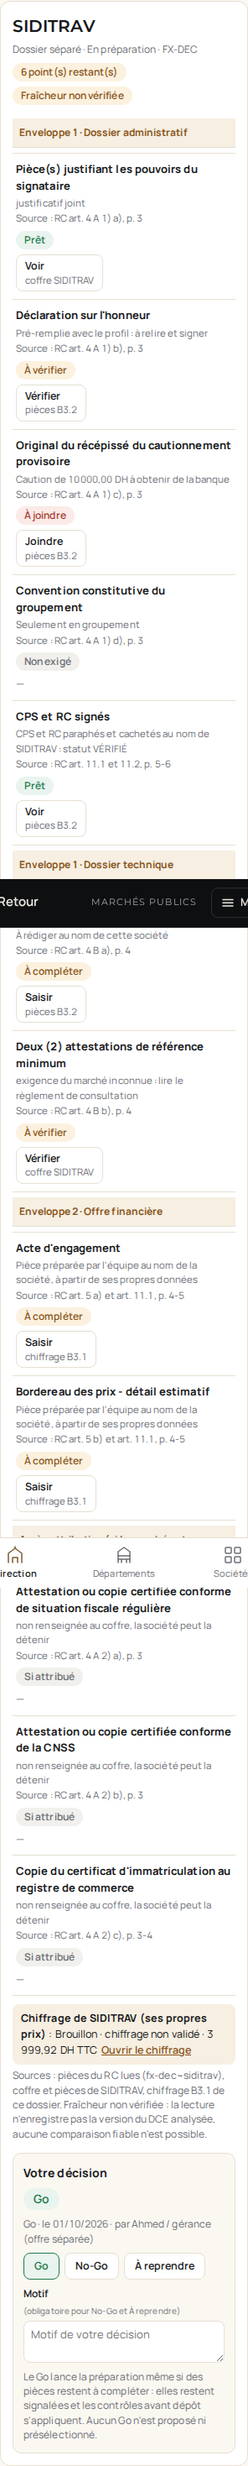
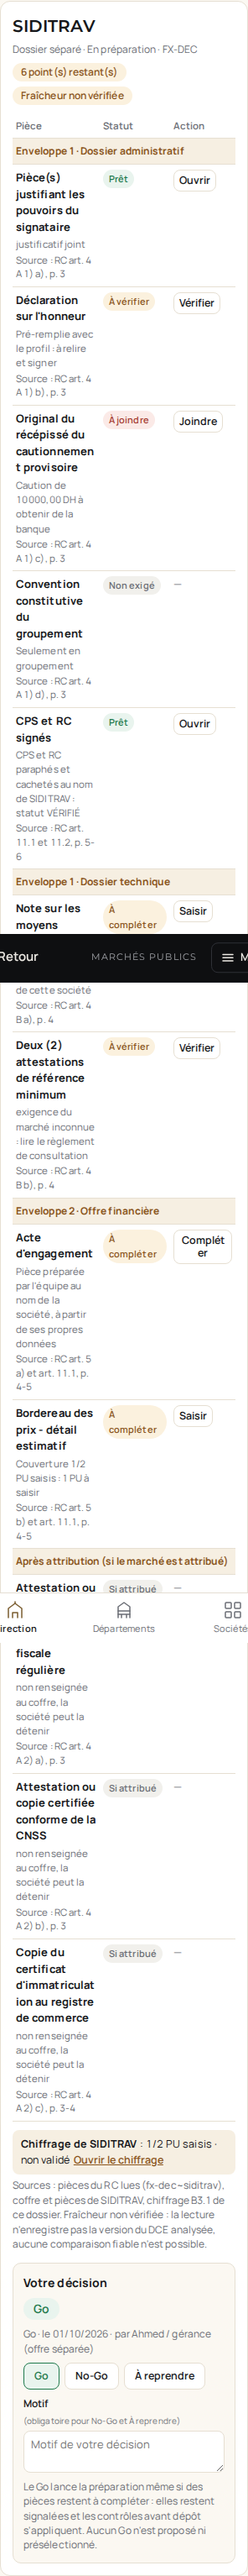
B2.1 b21d-2 : aucun montant dans la décision multi-sociétés, bordereau « Chiffré · à valider » d'après le chiffrage propre, en-têtes visibles
Publié version 1791669242-c9cf ; qa_b21dec 38/38 + non-régression (fixtures uniquement).

Claude-Session: https://claude.ai/code/session_01Fz3SDj4h719T8LXxdPwfkD

Changed region(s): [[0.0, 0.0, 1.0, 0.9915], [0.6993, 0.1549, 0.9122, 0.1859], [0.8818, 0.7436, 0.9122, 0.7746]]

diff --git a/preuves_b31/part_b21dec.js b/preuves_b31/part_b21dec.js
@@ -5,15 +5,21 @@
    a.decision {verdict, le, qui, motif} ; jamais de Go automatique ni de présélection ; une décision remplacée est conservée
    (a.decisionHist) et tracée au journal ; la société d'un dossier n'est jamais changée ici. L'avis et la recommandation de
    l'Analyste restent dans la note d'analyse. Consultation clôturée : décision affichée en lecture, aucune nouvelle soumission. */
-const B21D={v:"b21d-1",motif:{},conf:null};
-const B21D_ST={pret:["b21d-ok","Prêt"],verif:["b21d-amb","À vérifier"],joindre:["b21d-ko","À joindre"],compl:["b21d-amb","À compléter"],nonexige:["b21d-neu","Non exigé"],attrib:["b21d-neu","Si attribué"]};
-const B21D_COFFRE=["qc","refs","fis","cnss","rc","pouvoirs"],B21D_FIN=["ae","bpu","sdp"];
+const B21D={v:"b21d-2",motif:{},conf:null};
+const B21D_ST={chiffre:["b21d-amb","Chiffré · à valider"],chval:["b21d-ok","Chiffré · validé"],pret:["b21d-ok","Prêt"],verif:["b21d-amb","À vérifier"],joindre:["b21d-ko","À joindre"],compl:["b21d-amb","À compléter"],nonexige:["b21d-neu","Non exigé"],attrib:["b21d-neu","Si attribué"]};
+const B21D_COFFRE=["qc","refs","fis","cnss","rc","pouvoirs"],B21D_FIN=["bpu","sdp"];   /* l'acte d'engagement se prépare dans les pièces (B3.2) */
+/* b21d-2 : état du chiffrage de LA société, sans aucun montant (FIN-ISO-001) : couverture des PU et validation seulement */
+function b21dChiffrage(oid,a){if(!S.bp[oid])return null;try{const ET=b31Etat(oid,a),T=ET.T;return{n:T.n,N:T.n+T.miss,complet:!T.miss&&T.n>0,valide:!!ET.valide,tva:ET.tva.ok,statut:ET.statut.k};}catch(e){return null;}}
 function b21dSibs(id,a){let L=[];try{L=b31Sibs(id,a);}catch(e){L=[{id,soc:a.soc,statut:a.statut}];}return L.map(s=>({oid:s.id,sid:s.soc,a:S.ao[s.id]})).filter(x=>x.a&&x.sid);}
 function b21dRcId(oid,a){return[oid,a.base].filter(Boolean).find(x=>S.rc[x]&&Array.isArray(S.rc[x].pieces)&&S.rc[x].pieces.length)||oid;}
 function b21dLim(a){if(!a.lim)return null;const m=String(a.heure||"").match(/(\d{1,2})\s*[hH:]\s*(\d{2})?/),d=new Date(a.lim+"T"+(m?String(m[1]).padStart(2,"0")+":"+(m[2]||"00"):"23:59")+":00");return isNaN(d)?null:d;}
 const b21dClos=a=>{const d=b21dLim(a);return!!d&&d<new Date()&&!["Déposé","Attribué","Non retenu"].includes(a.statut);};
 /* statut d'une pièce : « Prêt » uniquement sur preuve vérifiée */
-function b21dPiece(row,p,oa,sid){const std=p&&p.std,st=row.st,dp=oa.dcePieces||{},F=oa.fichiers||{};
+function b21dPiece(row,p,oa,sid,CH){const std=p&&p.std,st=row.st,dp=oa.dcePieces||{},F=oa.fichiers||{};
+  if(std==="bpu"&&CH&&CH.n){const cov=CH.n+"/"+CH.N+" PU saisis";
+    if(CH.valide)return{k:"chval",ctrl:"Couverture "+cov+" · chiffrage validé (offre figée) ; signature et cachet du bordereau restent à faire"};
+    if(CH.complet)return{k:"chiffre",ctrl:"Couverture "+cov+" · chiffrage non validé"+(CH.tva?"":" ; TVA non confirmée")+" ; signature et cachet restent à faire"};
+    return{k:"compl",ctrl:"Couverture "+cov+" : "+(CH.N-CH.n)+" PU à saisir"};}
   if(std==="cpsrc"){const ok=["cps","rc"].every(k=>dp[k]&&dp[k].cachete&&dp[k].cachete.soc===sid&&dp[k].cachete.statut==="VÉRIFIÉ");
     if(ok)return{k:"pret",ctrl:"CPS et RC paraphés et cachetés au nom de "+socCourt(sid)+" : statut VÉRIFIÉ"};}
   if(std==="refs"&&F.refs&&F.refs.soc===sid&&F.refs.statut==="VÉRIFIÉ")return{k:"pret",ctrl:"Attestations de référence jointes au nom de "+socCourt(sid)+" : statut VÉRIFIÉ"};
@@ -22,18 +28,19 @@ function b21dPiece(row,p,oa,sid){const std=p&&p.std,st=row.st,dp=oa.dcePieces||{
   if(st==="manquant"||st==="bloquant")return{k:"joindre"};if(st==="remplir")return{k:"compl"};return{k:"verif"};}
 function b21dAller(oid,bur,k){if(typeof MPN!=="undefined"&&MPN.dos&&typeof mpnDosAller==="function"){S.aoId=oid;MPN.dos=Object.assign({},MPN.dos,{id:oid});mpnDosAller(bur,k);}else{S.aoId=oid;S.stepOpen={...(S.stepOpen||{}),[oid]:k};}
   render();window.scrollTo(0,0);if(typeof mpdFocus==="function")mpdFocus("#mpn-h");}
-function b21dAction(row,p,K,oid,sid){const std=p&&p.std,lab=K==="pret"?"Voir":K==="joindre"?"Joindre":K==="compl"?(B21D_FIN.includes(std)||std==="memoire"||std==="moyens"||std==="planning"?"Saisir":"Compléter"):"Vérifier";
+function b21dAction(row,p,K,oid,sid){const std=p&&p.std,lab=K==="pret"||K==="chiffre"||K==="chval"?"Ouvrir":K==="joindre"?"Joindre":K==="compl"?(B21D_FIN.includes(std)||std==="memoire"||std==="moyens"||std==="planning"?"Saisir":"Compléter"):"Vérifier";
   if(K==="nonexige"||K==="attrib")return"";
   if(B21D_COFFRE.includes(std))return`<button type="button" class="b21d-act" data-b21d-go="coffre" data-act="${act(()=>go(()=>{S.soc=sid;S.dept=null;}))}">${lab}<small>coffre ${esc(socCourt(sid))}</small></button>`;
   if(B21D_FIN.includes(std))return`<button type="button" class="b21d-act" data-b21d-go="prix" data-act="${act(()=>b21dAller(oid,"MP-B3.1","prix"))}">${lab}<small>chiffrage B3.1</small></button>`;
   return`<button type="button" class="b21d-act" data-b21d-go="pieces" data-act="${act(()=>b21dAller(oid,"MP-B3.2","pieces"))}">${lab}<small>pièces B3.2</small></button>`;}
 function b21dCarteData(oid,oa,sid){const rcId=b21dRcId(oid,oa),r=S.rc[rcId]||{},P=Array.isArray(r.pieces)?r.pieces:[];let rows=[];try{rows=b21Check(rcId,oa,sid);}catch(e){rows=[];}
   const env={"Administratif":["e1","adm"],"Technique":["e1","tec"],"Technique (offre technique)":["e1","tec"],"Financier":["e2","fin"],"Si attribué":["att","att"]};
-  const L=rows.filter(x=>x.pi!=null||x.st==="nonrens").map(x=>{const p=x.pi!=null?P[x.pi]:null,K=p?b21dPiece(x,p,oa,sid):{k:"verif"},e=env[x.g]||["e1","aut"];
+  const CH=b21dChiffrage(oid,oa);
+  const L=rows.filter(x=>x.pi!=null||x.st==="nonrens").map(x=>{const p=x.pi!=null?P[x.pi]:null,K=p?b21dPiece(x,p,oa,sid,CH):{k:"verif"},e=env[x.g]||["e1","aut"];
     return{piece:x.piece,ctrl:K.ctrl||x.ctrl,k:K.k,src:x.src,std:p&&p.std,env:e[0],sec:e[1],act:p?b21dAction(x,p,K.k,oid,sid):""};});
-  return{rcId,rows:L,reste:L.filter(x=>!["pret","nonexige","attrib"].includes(x.k)),rcOk:P.length>0,F:(()=>{try{return b21Fraicheur(rcId,oa);}catch(e){return null;}})()};}
-function b21dTable(D){const sec=[["e1","adm","Enveloppe 1 · Dossier administratif"],["e1","tec","Enveloppe 1 · Dossier technique"],["e1","aut","Enveloppe 1 · Autres pièces du RC"],["e2","fin","Enveloppe 2 · Offre financière"],["att","att","Après attribution (si le marché est attribué)"]];
-  let h=`<div class="b21d-tw"><table class="b21d-tab"><thead><tr><th scope="col">Pièce</th><th scope="col">Statut</th><th scope="col">Action</th></tr></thead><tbody>`;
+  return{rcId,CH,rows:L,reste:L.filter(x=>!["pret","nonexige","attrib"].includes(x.k)),rcOk:P.length>0,F:(()=>{try{return b21Fraicheur(rcId,oa);}catch(e){return null;}})()};}
+function b21dTable(D,sid){const sec=[["e1","adm","Enveloppe 1 · Dossier administratif"],["e1","tec","Enveloppe 1 · Dossier technique"],["e1","aut","Enveloppe 1 · Autres pièces du RC"],["e2","fin","Enveloppe 2 · Offre financière"],["att","att","Après attribution (si le marché est attribué)"]];
+  let h=`<div class="b21d-tw"><table class="b21d-tab" aria-label="Pièces de ${esc(socCourt(sid||""))} : pièce, statut, action"><caption class="b21d-sr">Pièces du dossier de ${esc(socCourt(sid||""))} selon le RC</caption><thead><tr><th scope="col">Pièce</th><th scope="col">Statut</th><th scope="col">Action</th></tr></thead><tbody>`;
   sec.forEach(([e,s,t])=>{const R=D.rows.filter(x=>x.env===e&&x.sec===s);if(!R.length)return;h+=`<tr class="b21d-sec"><th colspan="3" scope="colgroup">${esc(t)}</th></tr>`;
     R.forEach(x=>{const S2=B21D_ST[x.k]||B21D_ST.verif;h+=`<tr data-b21d-k="${x.k}"><td><b>${esc(x.piece)}</b>${x.ctrl?`<small>${esc(x.ctrl)}</small>`:""}${x.src?`<small class="b21d-src">Source : ${esc(x.src)}</small>`:""}</td><td><span class="b21d-pill ${S2[0]}">${S2[1]}</span></td><td>${x.act||`<span class="b21d-na">—</span>`}</td></tr>`;});});
   return h+`</tbody></table></div>`;}
@@ -63,13 +70,14 @@ function b21dPanneau(x,clos){const a=x.a,d=a.decision,ed=editable()&&!clos&&!["D
   else h+=`<p class="b21d-src">${clos?"Consultation clôturée : décision en lecture seule, aucune nouvelle soumission.":!editable()?"Lecture seule.":"Dossier "+esc(a.statut)+" : décision figée."}</p>`;
   if(H.length)h+=`<details class="b21d-hist"><summary>Historique des décisions (${H.length})</summary><ul>${H.map(z=>`<li>${esc(b21dDecTxt(z))}<small>remplacée le ${esc(fmtDT(z.remplaceLe))} par ${esc(b21dQui(z.remplacePar))}</small></li>`).join("")}</ul></details>`;
   return h+`</aside>`;}
-function b21dCarte(x,clos){const D=b21dCarteData(x.oid,x.a,x.sid),a=x.a;let fin="";
-  try{const ET=b31Etat(x.oid,a),r=b31ResumeTTC(x.oid,a);fin=S.bp[x.oid]?`<p class="b21d-fin" data-b21d-fin="1"><b>Chiffrage de ${esc(socCourt(x.sid))} (ses propres prix)</b> : ${esc(ET.statut.t)}${r?" · "+esc(r):""} <button type="button" class="b21d-lnk" data-act="${act(()=>b21dAller(x.oid,"MP-B3.1","prix"))}">Ouvrir le chiffrage</button></p>`:`<p class="b21d-fin">Bordereau non extrait pour ce dossier.</p>`;}catch(e){fin="";}
+function b21dCarte(x,clos){const D=b21dCarteData(x.oid,x.a,x.sid),a=x.a,CH=D.CH;
+  /* aucun montant (HT, TVA, TTC) dans cette vue multi-sociétés : couverture et validation seulement (FIN-ISO-001) */
+  const fin=CH?`<p class="b21d-fin" data-b21d-fin="1"><b>Chiffrage de ${esc(socCourt(x.sid))}</b> : ${esc(CH.n+"/"+CH.N)} PU saisis · ${CH.valide?"validé (offre figée)":CH.statut==="reprendre"?"à reprendre":"non validé"}${CH.tva?"":" · TVA non confirmée"} <button type="button" class="b21d-lnk" data-act="${act(()=>b21dAller(x.oid,"MP-B3.1","prix"))}">Ouvrir le chiffrage</button></p>`:`<p class="b21d-fin" data-b21d-fin="0">Bordereau non extrait pour ce dossier.</p>`;
   const FR=D.F?{ajour:["b21d-ok","Lecture à jour"],perimee:["b21d-ko","Note à actualiser"],inconnue:["b21d-amb","Fraîcheur non vérifiée"],absente:["b21d-amb","Aucune lecture"]}[D.F.k]:null;
   let h=`<article class="b21d-card" id="b21d-${esc(x.oid)}" data-b21d-soc="${esc(x.sid)}" data-b21d-oid="${esc(x.oid)}"><header class="b21d-ch"><div><h3>${esc(socCourt(x.sid))}</h3><p class="b21d-src">Dossier séparé · ${esc(a.statut||"")} · ${esc(a.ref||x.oid)}</p></div>
     <div class="b21d-cm"><span class="b21d-pill ${D.reste.length?"b21d-amb":"b21d-ok"}" data-b21d-reste="${D.reste.length}">${D.reste.length?D.reste.length+" point(s) restant(s)":"Aucun point restant relevé"}</span>${FR?`<span class="b21d-pill ${FR[0]}" title="${esc(D.F.txt)}">${FR[1]}</span>`:""}</div></header>
     <div class="b21d-body"><div class="b21d-main">`;
-  h+=D.rcOk?b21dTable(D):`<p class="b21d-warn">Pièces du RC non relevées pour ce dossier : liste indisponible (aucune pièce supposée). <button type="button" class="b21d-lnk" data-act="${act(()=>b21dAller(x.oid,"MP-B2.2","note"))}">Ouvrir la lecture RC / CPS</button></p>`;
+  h+=D.rcOk?b21dTable(D,x.sid):`<p class="b21d-warn">Pièces du RC non relevées pour ce dossier : liste indisponible (aucune pièce supposée). <button type="button" class="b21d-lnk" data-act="${act(()=>b21dAller(x.oid,"MP-B2.2","note"))}">Ouvrir la lecture RC / CPS</button></p>`;
   h+=fin+`<p class="b21d-src">Sources : pièces du RC lues (${esc(D.rcId)}), coffre et pièces de ${esc(socCourt(x.sid))}, chiffrage B3.1 de ce dossier. ${D.F?esc(D.F.txt):""}</p></div>${b21dPanneau(x,clos)}</div></article>`;
   return h;}
 function vDecisionB21(id,a){b21dCss();const X=b21dSibs(id,a),clos=b21dClos(a),lim=b21dLim(a),ed=editable();
@@ -120,5 +128,6 @@ const B21D_CSS=`.b21d{--d-bg:#FBF8F2;--d-card:#FFFFFF;--d-line:#E6DFD2;--d-ink:#
 .b21d-hist summary{cursor:pointer;font-size:12px;color:var(--d-amb)}.b21d-hist ul{margin:6px 0 0;padding-left:16px;font-size:12px}.b21d-hist small{display:block;color:var(--d-mut)}
 .b21d-ret h3{font-size:15px;margin-bottom:8px}.b21d-rl{list-style:none;margin:0;padding:0;display:flex;flex-direction:column;gap:6px}.b21d-rl li{display:flex;flex-wrap:wrap;justify-content:space-between;gap:8px;padding:8px 10px;border:1px solid var(--d-line);border-radius:8px}.b21d-rl small{display:block;color:var(--d-mut);font-size:12px}
 .b21d-rla{display:flex;gap:6px;align-items:center}.b21d-add{margin-top:10px;display:flex;flex-wrap:wrap;gap:6px;align-items:center}.b21d-add p{flex-basis:100%;margin:0;font-size:12.5px}
-@container b21d (max-width:560px){.b21d-tab thead{display:none}.b21d-tab,.b21d-tab tbody,.b21d-tab tr,.b21d-tab td,.b21d-tab th{display:block;width:auto!important}.b21d-tab tr{border-bottom:1px solid var(--d-line);padding:6px 0}.b21d-tab td{border:none;padding:3px 4px}}`;
+.b21d-sr{position:absolute;width:1px;height:1px;overflow:hidden;clip:rect(0 0 0 0);white-space:nowrap}
+@container b21d (max-width:560px){.b21d-tab th,.b21d-tab td{padding:6px 4px}.b21d-tab td:nth-child(2){width:84px}.b21d-tab td:nth-child(3){width:86px}.b21d-tab .b21d-pill{white-space:normal;font-size:11px;padding:2px 7px}.b21d-tab .b21d-act{padding:4px 6px;max-width:100%}.b21d-tab .b21d-act small{display:none}.b21d-tab{table-layout:fixed}.b21d-tab th:nth-child(2),.b21d-tab td:nth-child(2){width:84px}.b21d-tab th:nth-child(3),.b21d-tab td:nth-child(3){width:78px}.b21d-tab td{overflow-wrap:anywhere}}`;
 function b21dCss(){if(document.getElementById("b21d-css"))return;const s=document.createElement("style");s.id="b21d-css";s.textContent=B21D_CSS;document.head.appendChild(s);}

diff --git a/preuves_b31/qa_b21dec.py b/preuves_b31/qa_b21dec.py
@@ -18,7 +18,7 @@ for k in ("fx-dec","fx-decc"):M["rc"][k]=json.loads(json.dumps(RC))
 L3=[{"n":"1","d":"Ligne fictive A","u":"U","q":3,"s":"A. Section"},{"n":"2","d":"Ligne fictive B","u":"m²","q":10,"s":"A. Section"}]
 for k in ("fx-dec","fx-dec~siditrav"):M["bp"][k]={"lots":[{"lignes":L3}],"cadre":False,"alertes":[]}
 M["bpx"]["fx-dec"]={"p":{"0-0":1111.11,"0-1":22.22},"q":{},"soc":"sakdat","tva":{"taux":20,"etat":"confirme","src":{"doc":"CPS FICTIF","page":"1"},"mixte":False,"lignes":{}}}
-M["bpx"]["fx-dec~siditrav"]={"p":{"0-0":999.99,"0-1":33.33},"q":{},"soc":"siditrav","tva":{"taux":20,"etat":"confirme","src":{"doc":"CPS FICTIF","page":"1"},"mixte":False,"lignes":{}}}
+M["bpx"]["fx-dec~siditrav"]={"p":{"0-0":999.99},"q":{},"soc":"siditrav","tva":{"taux":20,"etat":"confirme","src":{"doc":"CPS FICTIF","page":"1"},"mixte":False,"lignes":{}}}
 json.dump(M,open(os.path.join(ICI0,"srv","mockdb_b21dec.json"),"w",encoding="utf-8"),ensure_ascii=False)
 src=open(os.path.join(ICI0,"qa_b31.py"),encoding="utf-8").read().replace("mockdb_b31.json","mockdb_b21dec.json").replace('OUT=os.path.join(ICI,"qa_b31")','OUT=os.path.join(ICI,"qa_b21dec")')
 exec(src.split("\nwith sync_playwright() as p:")[0])
@@ -38,9 +38,17 @@ with sync_playwright() as p:
     st=lambda s,piece:ev("([s,p])=>{const c=document.querySelector('[data-b21d-soc=\"'+s+'\"]');const r=[...c.querySelectorAll('tbody tr')].find(r=>r.innerText.includes(p));return r?r.dataset.b21dK:null}",[s,piece])
     chk(st("siditrav","CPS et RC")=="pret" and st("sakdat","CPS et RC")!="pret" and st("alwaad-ataib","CPS et RC")!="pret","« CPS et RC signés » Prêt seulement pour SIDITRAV (CPS et RC cachetés VÉRIFIÉ à son nom)")
     chk(st("sakdat","attestations de référence")=="pret" and st("alwaad-ataib","attestations de référence")!="pret","références Prêt pour SAKDAT (fichier VÉRIFIÉ à son nom) ; jamais pour ALWAAD avec un fichier au nom d'une autre société")
-    ks=ev("()=>[...document.querySelectorAll('[data-b21d-k]')].map(r=>r.dataset.b21dK)");chk(set(ks)<= {"pret","verif","joindre","compl","nonexige","attrib"} and "joindre" in ks and "compl" in ks and "verif" in ks,f"statuts limités à Prêt / À vérifier / À joindre / À compléter (+ non exigé, si attribué) : {sorted(set(ks))}")
+    ks=ev("()=>[...document.querySelectorAll('[data-b21d-k]')].map(r=>r.dataset.b21dK)");chk(set(ks)<= {"pret","verif","joindre","compl","nonexige","attrib","chiffre","chval"} and "joindre" in ks and "compl" in ks and "verif" in ks,f"statuts limités à Prêt / À vérifier / À joindre / À compléter (+ non exigé, si attribué, chiffré) : {sorted(set(ks))}")
     fin=ev("()=>Object.fromEntries([...document.querySelectorAll('[data-b21d-oid]')].map(c=>[c.dataset.b21dSoc,(c.querySelector('[data-b21d-fin]')||{}).innerText||'']))")
-    chk("1 111,11" not in fin.get("siditrav","").replace(" "," ") and "999,99" not in fin.get("sakdat","") and "Chiffrage de SIDITRAV" in fin.get("siditrav",""),"chiffrage affiché par carte avec les seuls prix de la société (aucun prix d'une autre société)")
+    TT=pg.inner_text("[data-b21d]").replace(" "," ").replace("\xa0"," ")
+    chk("2/2 PU saisis" in fin["sakdat"] and "1/2 PU saisis" in fin["siditrav"] and not re.search(r"TTC|\bHT\b",TT) and not re.search(r"1 111,11|999,99|22,22",TT),"aucun montant HT / TVA / TTC ni PU dans la vue multi-sociétés : couverture (2/2, 1/2 PU) et validation seulement")
+    chk(st("sakdat","Bordereau des prix")=="chiffre" and st("siditrav","Bordereau des prix")=="compl","bordereau : « Chiffré · à valider » quand tous les PU de la société sont saisis (non validé), « À compléter » si partiel")
+    bp=ev("""()=>{const r=[...document.querySelectorAll('[data-b21d-soc="sakdat"] tbody tr')].find(r=>r.innerText.includes('Bordereau des prix'));return{t:r.innerText,go:r.querySelector('[data-b21d-go]').dataset.b21dGo}}""")
+    chk("Chiffré · à valider" in bp["t"] and "Couverture 2/2 PU saisis" in bp["t"] and "signature et cachet restent à faire" in bp["t"] and "Ouvrir" in bp["t"] and bp["go"]=="prix","bordereau rempli : couverture réelle, signature non prétendue, action « Ouvrir » le chiffrage B3.1")
+    ae=ev("""()=>{const r=[...document.querySelectorAll('[data-b21d-soc="sakdat"] tbody tr')].find(r=>r.innerText.includes("Acte d'engagement"));return r.querySelector('[data-b21d-go]').dataset.b21dGo}""")
+    chk(ae=="pieces","acte d'engagement : action vers sa préparation (pièces B3.2), pas le chiffrage")
+    hd=ev("""()=>[...document.querySelectorAll('[data-b21d-oid]')].map(c=>{const t=c.querySelector('table.b21d-tab'),th=[...t.querySelectorAll('thead th')];return{txt:th.map(x=>x.innerText.trim()),vis:getComputedStyle(t.tHead).display!=='none'&&th.every(x=>x.getBoundingClientRect().height>0),scope:th.every(x=>x.getAttribute('scope')==='col'),cap:!!t.caption,lab:t.getAttribute('aria-label')}})""")
+    chk(all(h["txt"]==["Pièce","Statut","Action"] and h["vis"] and h["scope"] and h["cap"] and "pièce, statut, action" in h["lab"] for h in hd),"en-têtes Pièce / Statut / Action visibles (scope=col), légende et libellé accessibles sur chaque tableau")
     chk(len(W())==w0,"affichage : aucune écriture")
     # actions = handlers existants de la bonne société
     ev("()=>{const c=document.querySelector('[data-b21d-soc=\"siditrav\"] [data-b21d-go=\"pieces\"]');c.click();}");pg.wait_for_timeout(400)
@@ -86,6 +94,9 @@ with sync_playwright() as p:
         c=b.new_context(viewport={"width":w,"height":h},color_scheme=sch);c.add_init_script(INIT);q=c.new_page();e=[];q.on("pageerror",lambda x:e.append(str(x)))
         q.goto(URL);q.wait_for_function("()=>typeof S!=='undefined'&&S.aoState==='ok'&&Object.keys(S.ao).length>50",timeout=20000);q.wait_for_timeout(800);dec(q,"fx-dec")
         L=q.evaluate("()=>{const c=document.querySelector('[data-b21d-soc=\"siditrav\"]'),t=c.querySelector('.b21d-main').getBoundingClientRect(),d=c.querySelector('.b21d-dec').getBoundingClientRect();return{ov:document.documentElement.scrollWidth-document.documentElement.clientWidth,dessous:d.top>=t.bottom-2,droite:d.left>=t.right-2}}")
+        hv=q.evaluate("""()=>{const t=document.querySelector('[data-b21d-soc="siditrav"] table.b21d-tab');return getComputedStyle(t.tHead).display!=='none'&&[...t.tHead.querySelectorAll('th')].map(x=>x.innerText.trim()).join('|')==='Pièce|Statut|Action'}""")
+        tw=q.evaluate("""()=>[...document.querySelectorAll('.b21d-tw')].map(t=>t.scrollWidth-t.clientWidth)""")
+        chk(hv and max(tw)<=1,f"{tag} : en-têtes Pièce / Statut / Action visibles, colonne Action entière (aucun défilement interne : {max(tw)} px)")
         chk(L["ov"]<=1 and (L["dessous"] if w<600 else L["droite"]) and not e,f"{tag} : {'décision sous le tableau' if w<600 else 'décision à droite'}, aucun débordement ({L})")
         q.locator('[data-b21d-soc="siditrav"]').screenshot(path=f"{OUT}/fx_dec_{tag}.png");c.close()
 print(sum(x.startswith("OK") for x in R),"/",len(R))
